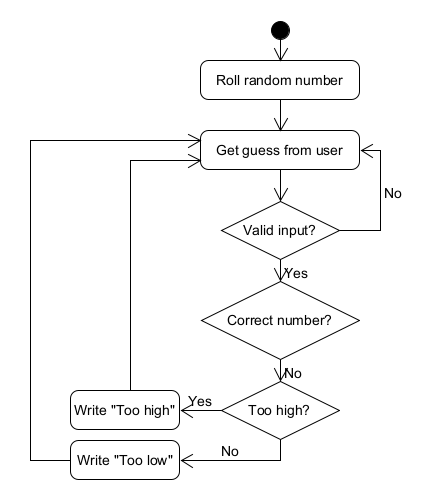
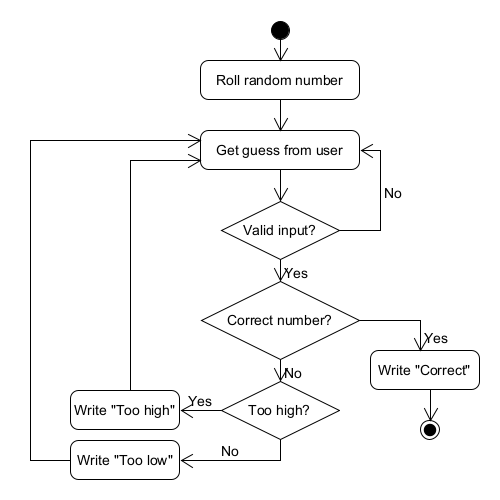
Prettification

diff --git a/GuessTheNumberPrettified/Program.cs b/GuessTheNumberPrettified/Program.cs
@@ -13,7 +13,7 @@ internal class Program
             do
             {
                 //get current guess from user
-                Console.Write($"Enter a number from 1 to {maxValue}: ");
+                Console.Write($"Guess the number (between 1 and {maxValue}) ");
                 string? guessAsString = Console.ReadLine();
 
                 //try converting the input to a number
@@ -22,11 +22,11 @@ internal class Program
             } while (!validInput);
 
             //get result from the guessing game object
-            GuessingGame.Result resultat = game.Guess(currentGuess);
+            GuessingGame.Result result = game.Guess(currentGuess);
 
             //give feedback to user
-            if (resultat == GuessingGame.Result.Correct) { Console.WriteLine("Correct"); }
-            else if (resultat == GuessingGame.Result.TooLow) { Console.WriteLine("Too low"); }
+            if (result == GuessingGame.Result.Correct) { Console.WriteLine("Correct"); }
+            else if (result == GuessingGame.Result.TooLow) { Console.WriteLine("Too low"); }
             else { Console.WriteLine("Too high"); }
 
             //write number of guesses used so far

diff --git a/GuessTheNumberPrettified/GuessingGame.cs b/GuessTheNumberPrettified/GuessingGame.cs
@@ -1,10 +1,4 @@
-using System;
-using System.Collections.Generic;
-using System.Linq;
-using System.Text;
-using System.Threading.Tasks;
-
-namespace GuessTheNumberPrettified;
+namespace GuessTheNumberPrettified;
 
 /// <summary>
 /// This class encapsulates a "Guess the number" game, where you can keep guessing, receiving feedback in the form of "Lower, Higher or Correct". The game also counts the number of guesses used.
@@ -14,7 +8,7 @@ public class GuessingGame
     /// <summary>
     /// An enumeration signifying the result of a guess
     /// </summary>
-    public enum Result { Empty, TooLow, Correct, TooHigh }
+    public enum Result { None, TooLow, Correct, TooHigh }
 
     /// <summary>
     /// Has the number been guessed?

diff --git a/GuessTheNumber/Program.cs b/GuessTheNumber/Program.cs
@@ -1,5 +1,4 @@
 namespace GuessTheNumber;
-
 internal class Program
 {
     private const int MaxValue = 20;
